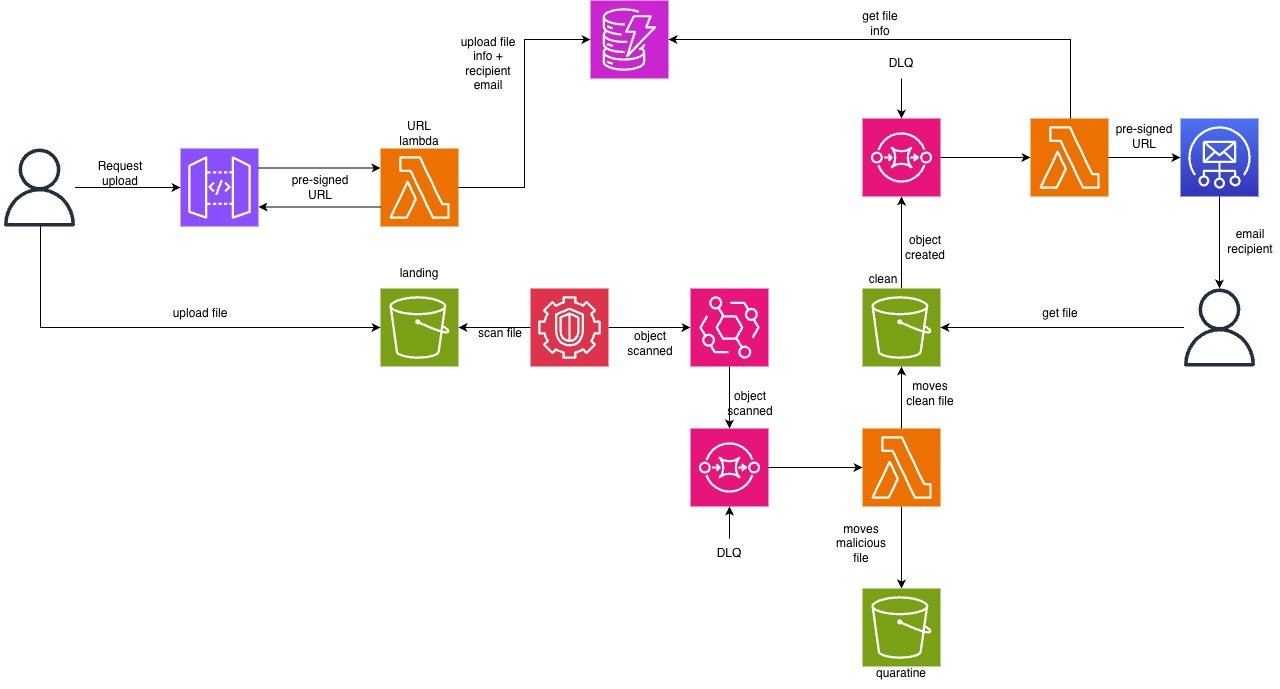
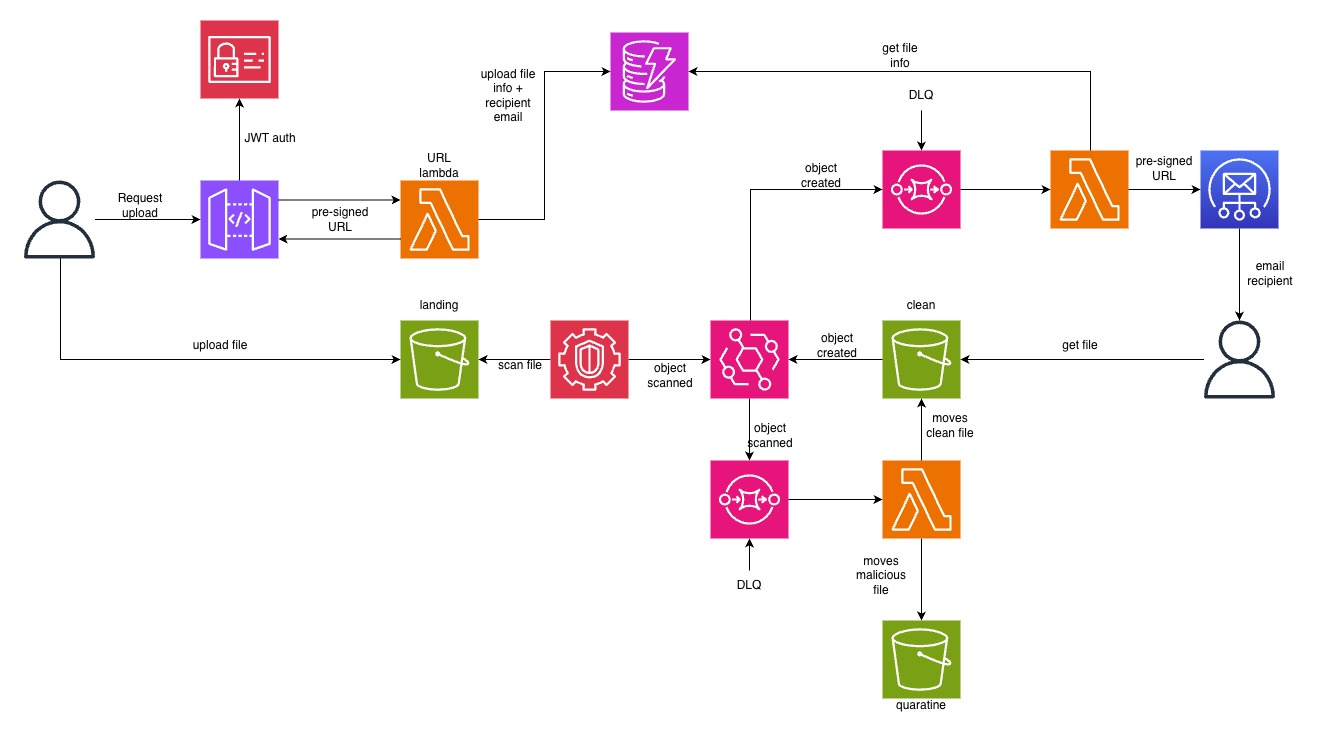
feat: jwt auth (#7)

diff --git a/README.md b/README.md
@@ -31,7 +31,7 @@ The result is a system that is **scalable, secure, and loosely coupled**.
 
 At a high level, the system consists of:
 
-- **API service** for issuing upload permissions
+- **API Gateway** (with JWT authorization) for issuing upload permissions
 - **S3 buckets** for ingestion, clean files, and quarantined files
 - **EventBridge** for routing events
 - **Lambda functions** for processing steps
@@ -44,15 +44,16 @@ At a high level, the system consists of:
 
 ## 🔁 High-Level Workflow
 
-1. A client requests permission to upload a file
-2. The backend issues a **pre-signed S3 PUT URL**
-3. The client uploads the file directly to S3
-4. S3 emits an object creation event
-5. GuardDuty asynchronously scans the file for malware
-6. Based on the scan result:
+1. A client authenticates with a valid JWT token
+2. The client requests permission to upload a file
+3. The backend issues a **pre-signed S3 PUT URL**
+4. The client uploads the file directly to S3
+5. S3 emits an object creation event
+6. GuardDuty asynchronously scans the file for malware
+7. Based on the scan result:
    - Clean files are moved to a secure download bucket
    - Malicious files are quarantined
-7. The recipient is notified via email with a pre-signed download link (if clean)
+8. The recipient is notified via email with a pre-signed download link (if clean)
 
 All processing beyond the initial request is **fully event-driven**.
 
@@ -90,10 +91,15 @@ This enables:
 **Cloud & Infrastructure**
 - AWS S3
 - AWS Lambda
+- AWS API Gateway (with JWT authorization)
 - AWS EventBridge
 - AWS GuardDuty (Malware Protection for S3)
 - AWS SES
 - AWS DynamoDB
+
+**Authentication & Authorization**
+- OIDC (OpenID Connect) for AWS credentials
+- JWT (JSON Web Tokens) for API authorization
 
 **Backend**
 - NodeJS
@@ -114,6 +120,9 @@ This project can be tested entirely from the command line.
 ```bash
 POST /uploads
 ```
+
+Requires:
+- Valid JWT token in the `Authorization` header
 
 Returns:
 - Upload ID
